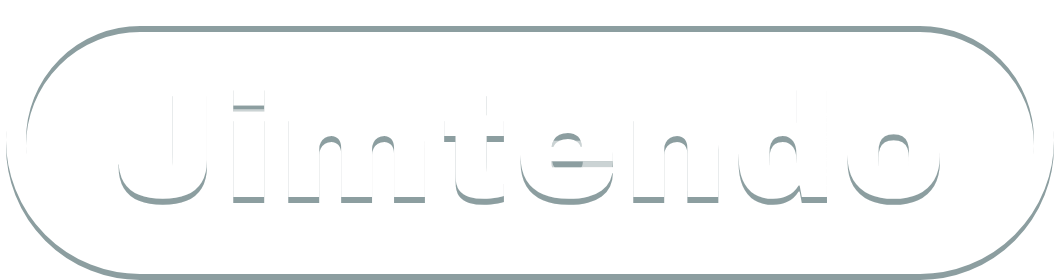
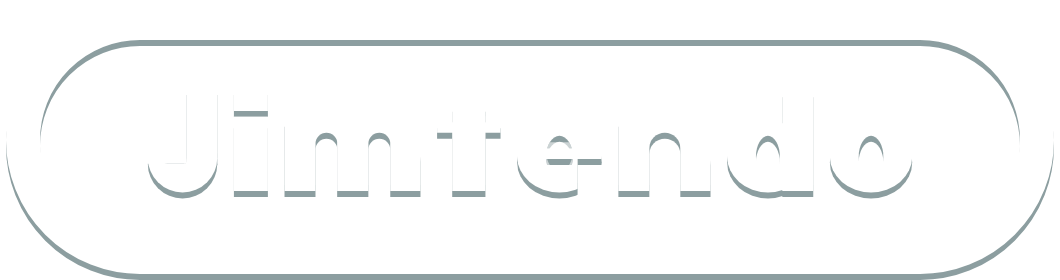
Letter the Jimtendo badge in the style of the Nintendo wordmark.
Archivo was too wide and even. The badge is now lettered by hand in the
Nintendo logo's construction: heavy stems with thinner horizontals, a
tall x-height, flat-topped arches with rounded shoulders, a square i dot
and a long t bar, measured from the real logo. The rim is thickened to
match too. The drawing lives in model-src/jimtendo-badge/ so the image
can be regenerated.

Claude-Session: https://claude.ai/code/session_01Tu4TJwKBDRDkX1oWguQZMq

diff --git a/model-src/jimtendo-badge/glyphs.js b/model-src/jimtendo-badge/glyphs.js
@@ -1,0 +1,62 @@
+// Jimtendo lettering, built the way the Nintendo wordmark is: heavy vertical
+// stems, thinner horizontals, tall x-height. Units are pixels of a reference
+// logo whose x-height is 91; baseline is y = 0, up is negative.
+const M = { x: 91, cap: 135, asc: 132, stem: 41, hair: 20, bar: 14, gap: 22, over: 2 };
+
+function glyphs(ctx) {
+  const { x: X, cap: C, asc: A, stem: S, hair: Hh, bar: B, over: O } = M;
+  const fill = (fn) => { ctx.globalCompositeOperation = 'source-over'; ctx.beginPath(); fn(); ctx.fill(); };
+  const cut = (fn) => { ctx.globalCompositeOperation = 'destination-out'; ctx.beginPath(); fn(); ctx.fill(); ctx.globalCompositeOperation = 'source-over'; };
+  const rect = (x, y, w, h) => () => ctx.rect(x, y, w, h);
+  const ell = (cx, cy, rx, ry, a0 = 0, a1 = Math.PI * 2) => () => ctx.ellipse(cx, cy, rx, ry, 0, a0, a1);
+  // A ring: thick sides, thin top and bottom.
+  const ring = (x0, w, top, bot) => {
+    const cx = x0 + w / 2, cy = (top + bot) / 2, rx = w / 2, ry = (bot - top) / 2;
+    fill(ell(cx, cy, rx, ry));
+    cut(ell(cx, cy, rx - S * 0.93, ry - Hh));
+  };
+  // An arch over two stems (n, and each half of m), opening downward.
+  // Square on the stem side, a big rounded shoulder on the right, and a tall
+  // round-topped counter, so the top thins to a hairline where it leaves the stem.
+  const arch = (x0, w, inner) => {
+    const top = -X - O;
+    fill(() => ctx.roundRect(x0, top, w, -top, [0, w * 0.42, 0, 0]));
+    const il = x0 + S;
+    cut(() => ctx.roundRect(il, top + Hh * 0.8, inner, -top - Hh * 0.8 + 1, [inner / 2, inner / 2, 0, 0]));
+  };
+  return {
+    J: { w: 92, draw(x) {
+      fill(rect(x + 92 - S, -C, S, C - 44 + 2));  // overlaps the hook so no seam shows
+      const cx = x + 46, cy = -44;
+      fill(() => { ctx.ellipse(cx, cy, 46, 44 + O, 0, 0, Math.PI); ctx.closePath(); });
+      // The counter runs from a thinner left terminal to the stem's inside edge.
+      const il = x + 22, ir = x + 92 - S;
+      cut(() => { ctx.ellipse((il + ir) / 2, cy, (ir - il) / 2, 44 + O - Hh, 0, 0, Math.PI); ctx.closePath(); });
+    } },
+    i: { w: 45, draw(x) { fill(rect(x, -X, 45, X)); fill(rect(x, -X - 44, 45, 29)); } },
+    m: { w: 180, draw(x) { arch(x, 110, 29); arch(x + 70, 110, 29); } },
+    n: { w: 122, draw(x) { arch(x, 122, 41); } },
+    t: { w: 84, draw(x) {
+      fill(rect(x + 20, -X - 22, 44, X + 22));
+      fill(rect(x, -X, 84, B));
+    } },
+    e: { w: 112, draw(x) {
+      ring(x, 112, -X - O, O);
+      const barTop = -X / 2 - B / 2 - 4;
+      fill(rect(x + 8, barTop, 98, B));
+      // The aperture: open below the bar on the right, ending the lower
+      // stroke in a flat, upright terminal.
+      cut(rect(x + 80, barTop + B, 60, -barTop - B + O + 1));
+    } },
+    d: { w: 114, draw(x) { ring(x, 108, -X - O, O); fill(rect(x + 114 - S, -A, S, A)); } },
+    o: { w: 109, draw(x) { ring(x, 109, -X - O, O); } },
+  };
+}
+
+// Draws `word` with its baseline at y = 0, starting at x = 0. Returns the advance.
+function setWord(ctx, word) {
+  const G = glyphs(ctx);
+  let x = 0;
+  for (const ch of word) { G[ch].draw(x); x += G[ch].w + M.gap; }
+  return x - M.gap;
+}

diff --git a/model-src/jimtendo-badge/index.html b/model-src/jimtendo-badge/index.html
@@ -1,0 +1,62 @@
+<!doctype html><meta charset="utf-8">
+<title>Jimtendo badge</title>
+<!--
+  Draws public/models/jimtendo-badge.png: the embossed badge laid over the
+  shell under the screen (see src/scene.js). Open this page and run, in the
+  console:
+
+    draw(OPTIONS).then((url) => { const a = document.createElement('a'); a.href = url; a.download = 'jimtendo-badge.png'; a.click(); })
+
+  with OPTIONS as below. The lettering is drawn by glyphs.js.
+-->
+<script>
+const OPTIONS = { text: 'Jimtendo', capShare: 0.46, widthShare: 0.78, rim: 34, depth: 6, light: 'rgba(255,255,255,0.55)', shadow: 'rgba(0,40,45,0.45)', face: 0 };
+</script>
+<canvas id=c></canvas>
+<script src=glyphs.js></script>
+<script>
+// Width:height matches the original badge (53 x 14 texture pixels), at 20x.
+const W = 1060, H = 280;
+// Returns the badge as a PNG data URL.
+async function draw(opts) {
+  const c = document.getElementById('c'); c.width = W; c.height = H;
+  const x = c.getContext('2d');
+  // Height map: the raised racetrack rim and letters.
+  const h = document.createElement('canvas'); h.width = W; h.height = H;
+  const g = h.getContext('2d');
+  const lw = opts.rim, r = (H - lw) / 2 - 6;
+  g.strokeStyle = '#fff'; g.lineWidth = lw;
+  g.beginPath(); g.roundRect(lw / 2 + 6, lw / 2 + 6, W - lw - 12, H - lw - 12, r); g.stroke();
+  g.fillStyle = '#fff';
+  // Size the lettering like the Nintendo badge: caps about 46% of the badge's
+  // height, and no wider than 78% of the inside of the rim.
+  const probe = document.createElement('canvas').getContext('2d');
+  const advance = setWord(probe, opts.text);
+  const k = Math.min((opts.capShare * H) / M.cap, (opts.widthShare * (W - 2 * (lw + 6))) / advance);
+  g.save();
+  g.translate(W / 2 - (advance * k) / 2, H / 2 + (M.cap * k) / 2);
+  g.scale(k, k);
+  // Glyph cuts must only remove lettering, not the rim, so set the word on its own layer.
+  const t = document.createElement('canvas'); t.width = W; t.height = H;
+  const tg = t.getContext('2d'); tg.setTransform(g.getTransform()); tg.fillStyle = '#fff';
+  setWord(tg, opts.text);
+  g.restore();
+  g.drawImage(t, 0, 0);
+  // Emboss: light on the upper edges, shadow on the lower edges, nothing on the flat tops.
+  const d = opts.depth;
+  const layer = (col, dy) => {
+    const l = document.createElement('canvas'); l.width = W; l.height = H;
+    const lx = l.getContext('2d');
+    lx.drawImage(h, 0, 0);
+    lx.globalCompositeOperation = 'source-in'; lx.fillStyle = col; lx.fillRect(0, 0, W, H);
+    lx.globalCompositeOperation = 'destination-out'; lx.drawImage(h, 0, -dy);
+    return l;
+  };
+  x.clearRect(0, 0, W, H);
+  x.drawImage(layer(opts.shadow, d), 0, d);   // below each raised edge
+  x.drawImage(layer(opts.light, -d), 0, -d);  // above each raised edge
+  // A faint tint on the raised faces, so the shapes read at a distance.
+  x.globalAlpha = opts.face; x.drawImage(h, 0, 0); x.globalAlpha = 1;
+  return c.toDataURL('image/png');
+}
+</script>

diff --git a/README.md b/README.md
@@ -18,7 +18,7 @@ The game itself is plain HTML, CSS and JavaScript with no dependencies (aside fr
 - `public/models/gameboy.glb` – the model the page loads, built by `npm run build-model` from the original `game_boy_color.glb`
   - `model-src/patches/` – texture patches it pastes in: JIM BOY on the lens, and plain plastic over the shell's original badge (colour and normal map)
   - `scripts/build-model.mjs` – applies the patches and optimises the model
-- `public/models/jimtendo-badge.png` – the Jimtendo badge under the screen. The shell texture is too coarse for a sharp badge, so the patches blank its original one and `src/scene.js` lays this image over the same spot.
+- `public/models/jimtendo-badge.png` – the Jimtendo badge under the screen. The shell texture is too coarse for a sharp badge, so the patches blank its original one and `src/scene.js` lays this image over the same spot. It is drawn by `model-src/jimtendo-badge/`, lettered in the style of the Nintendo wordmark.
 
 ## Run locally
 
